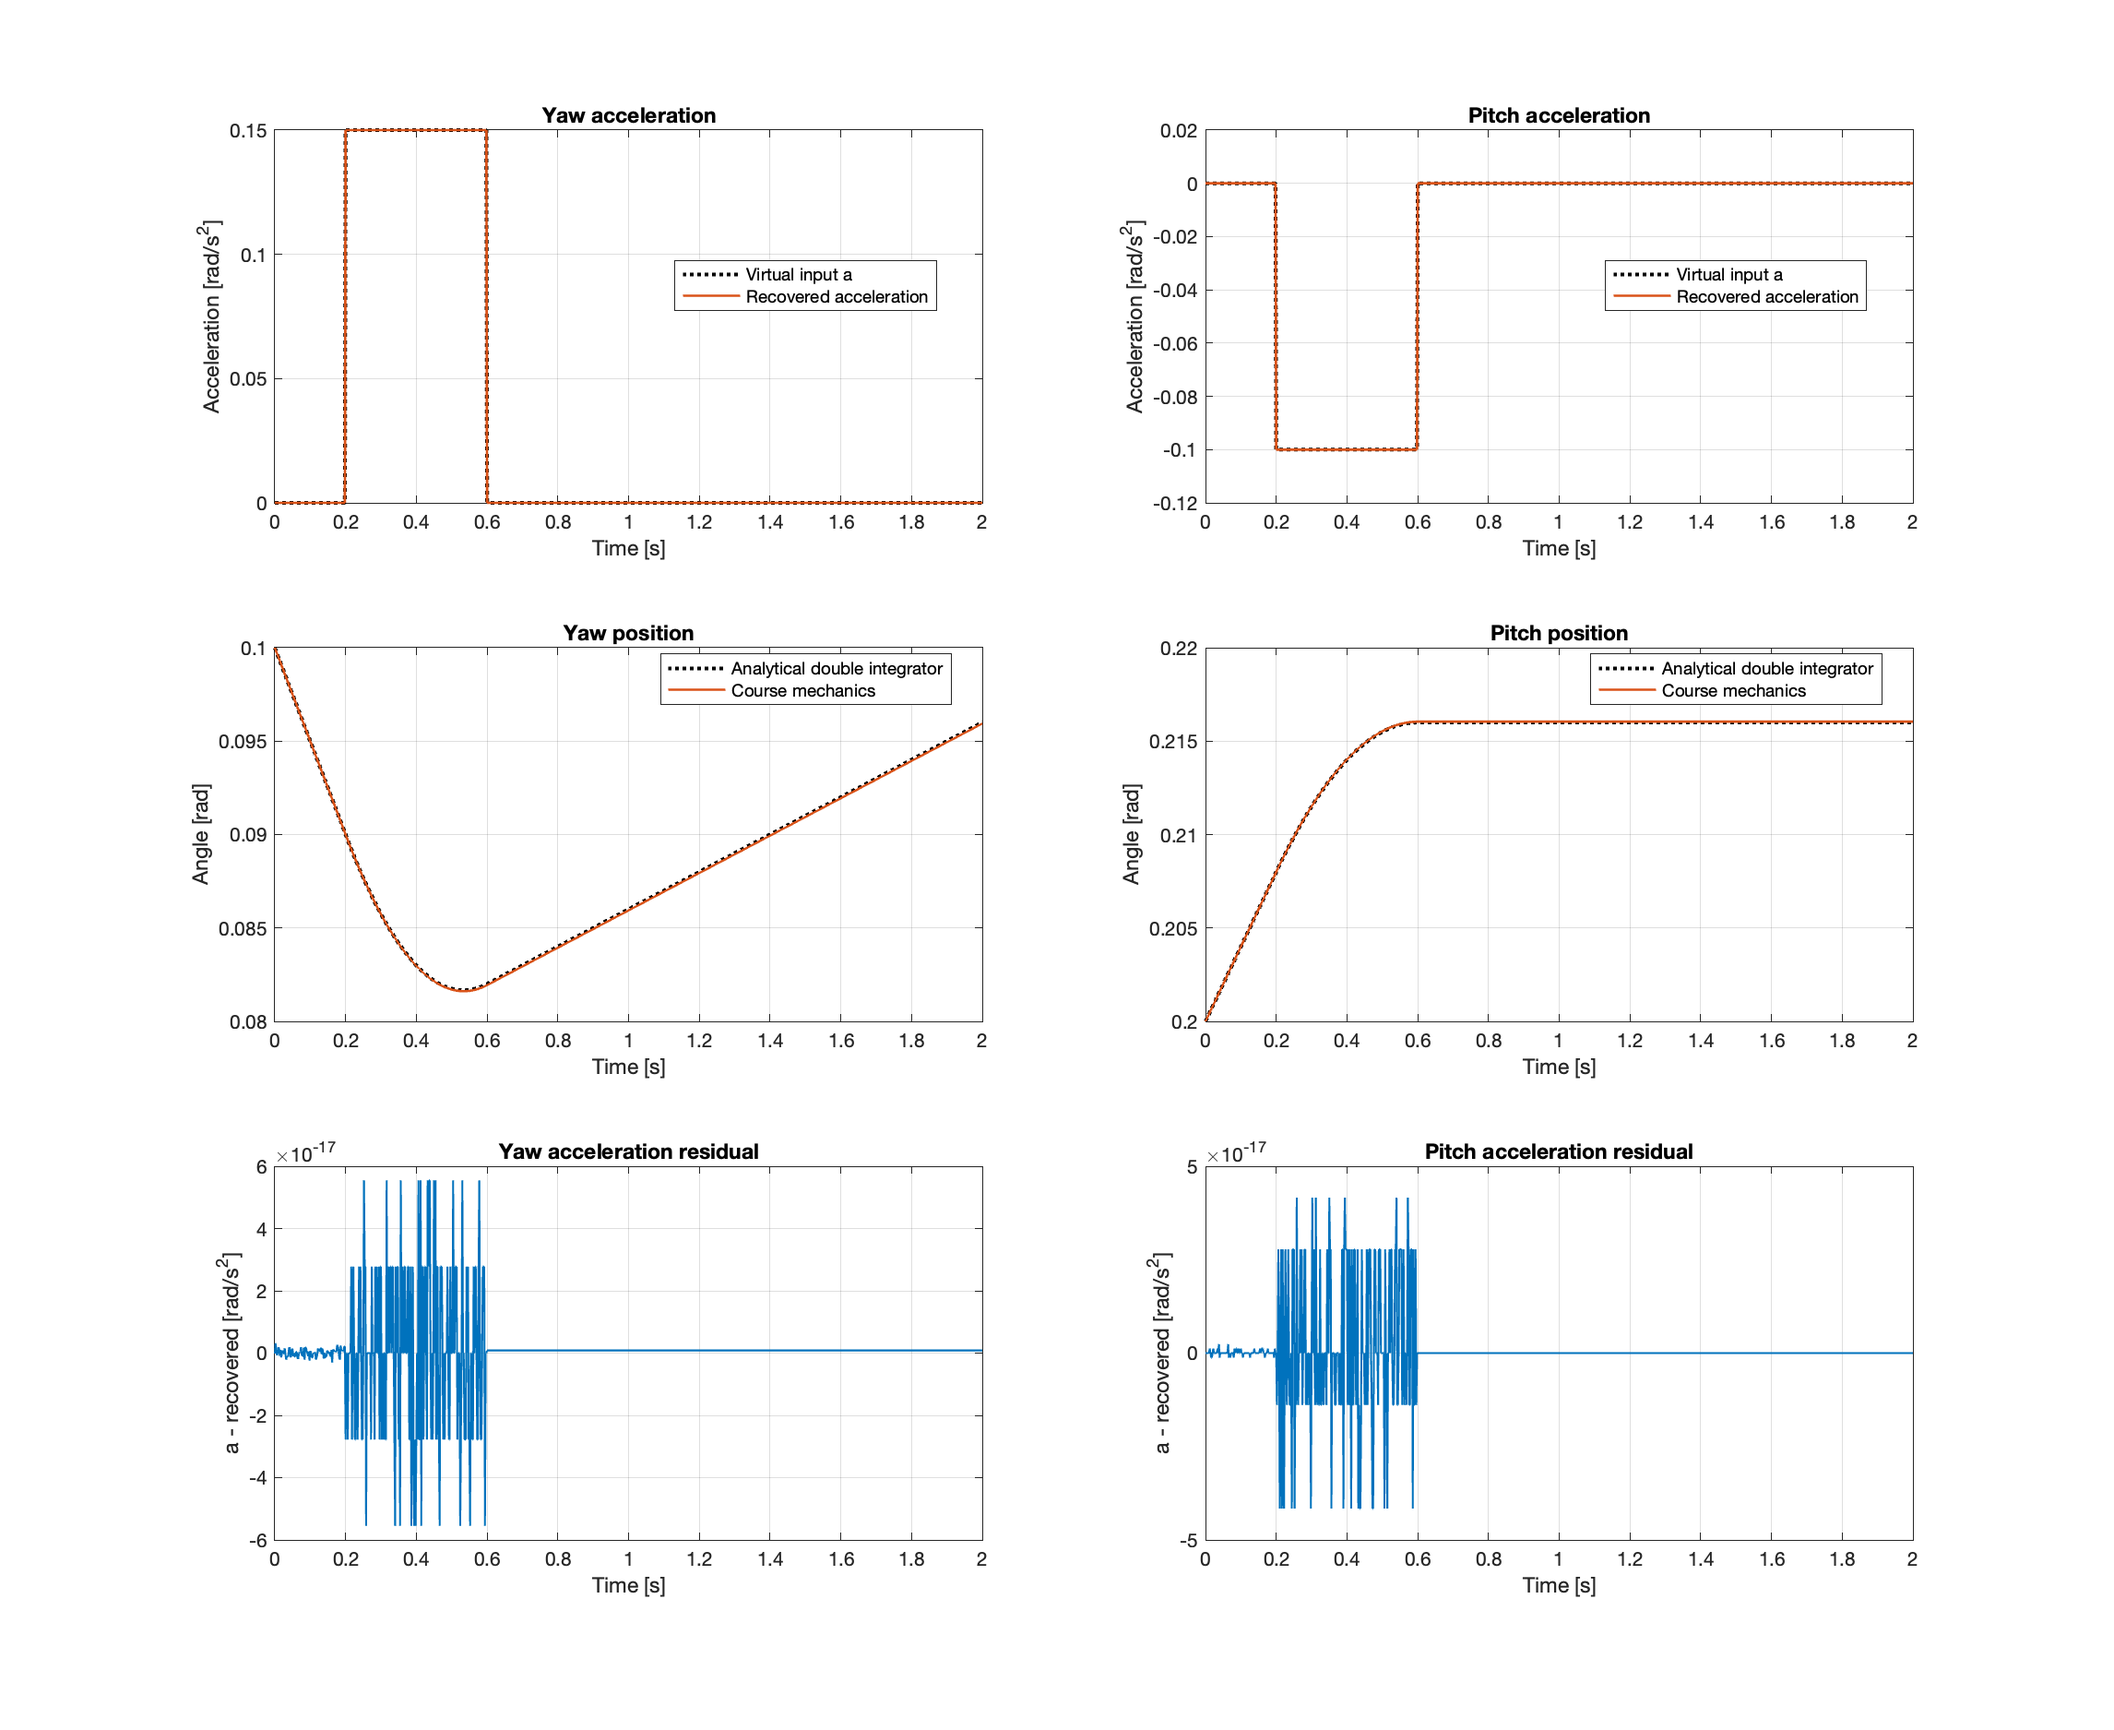
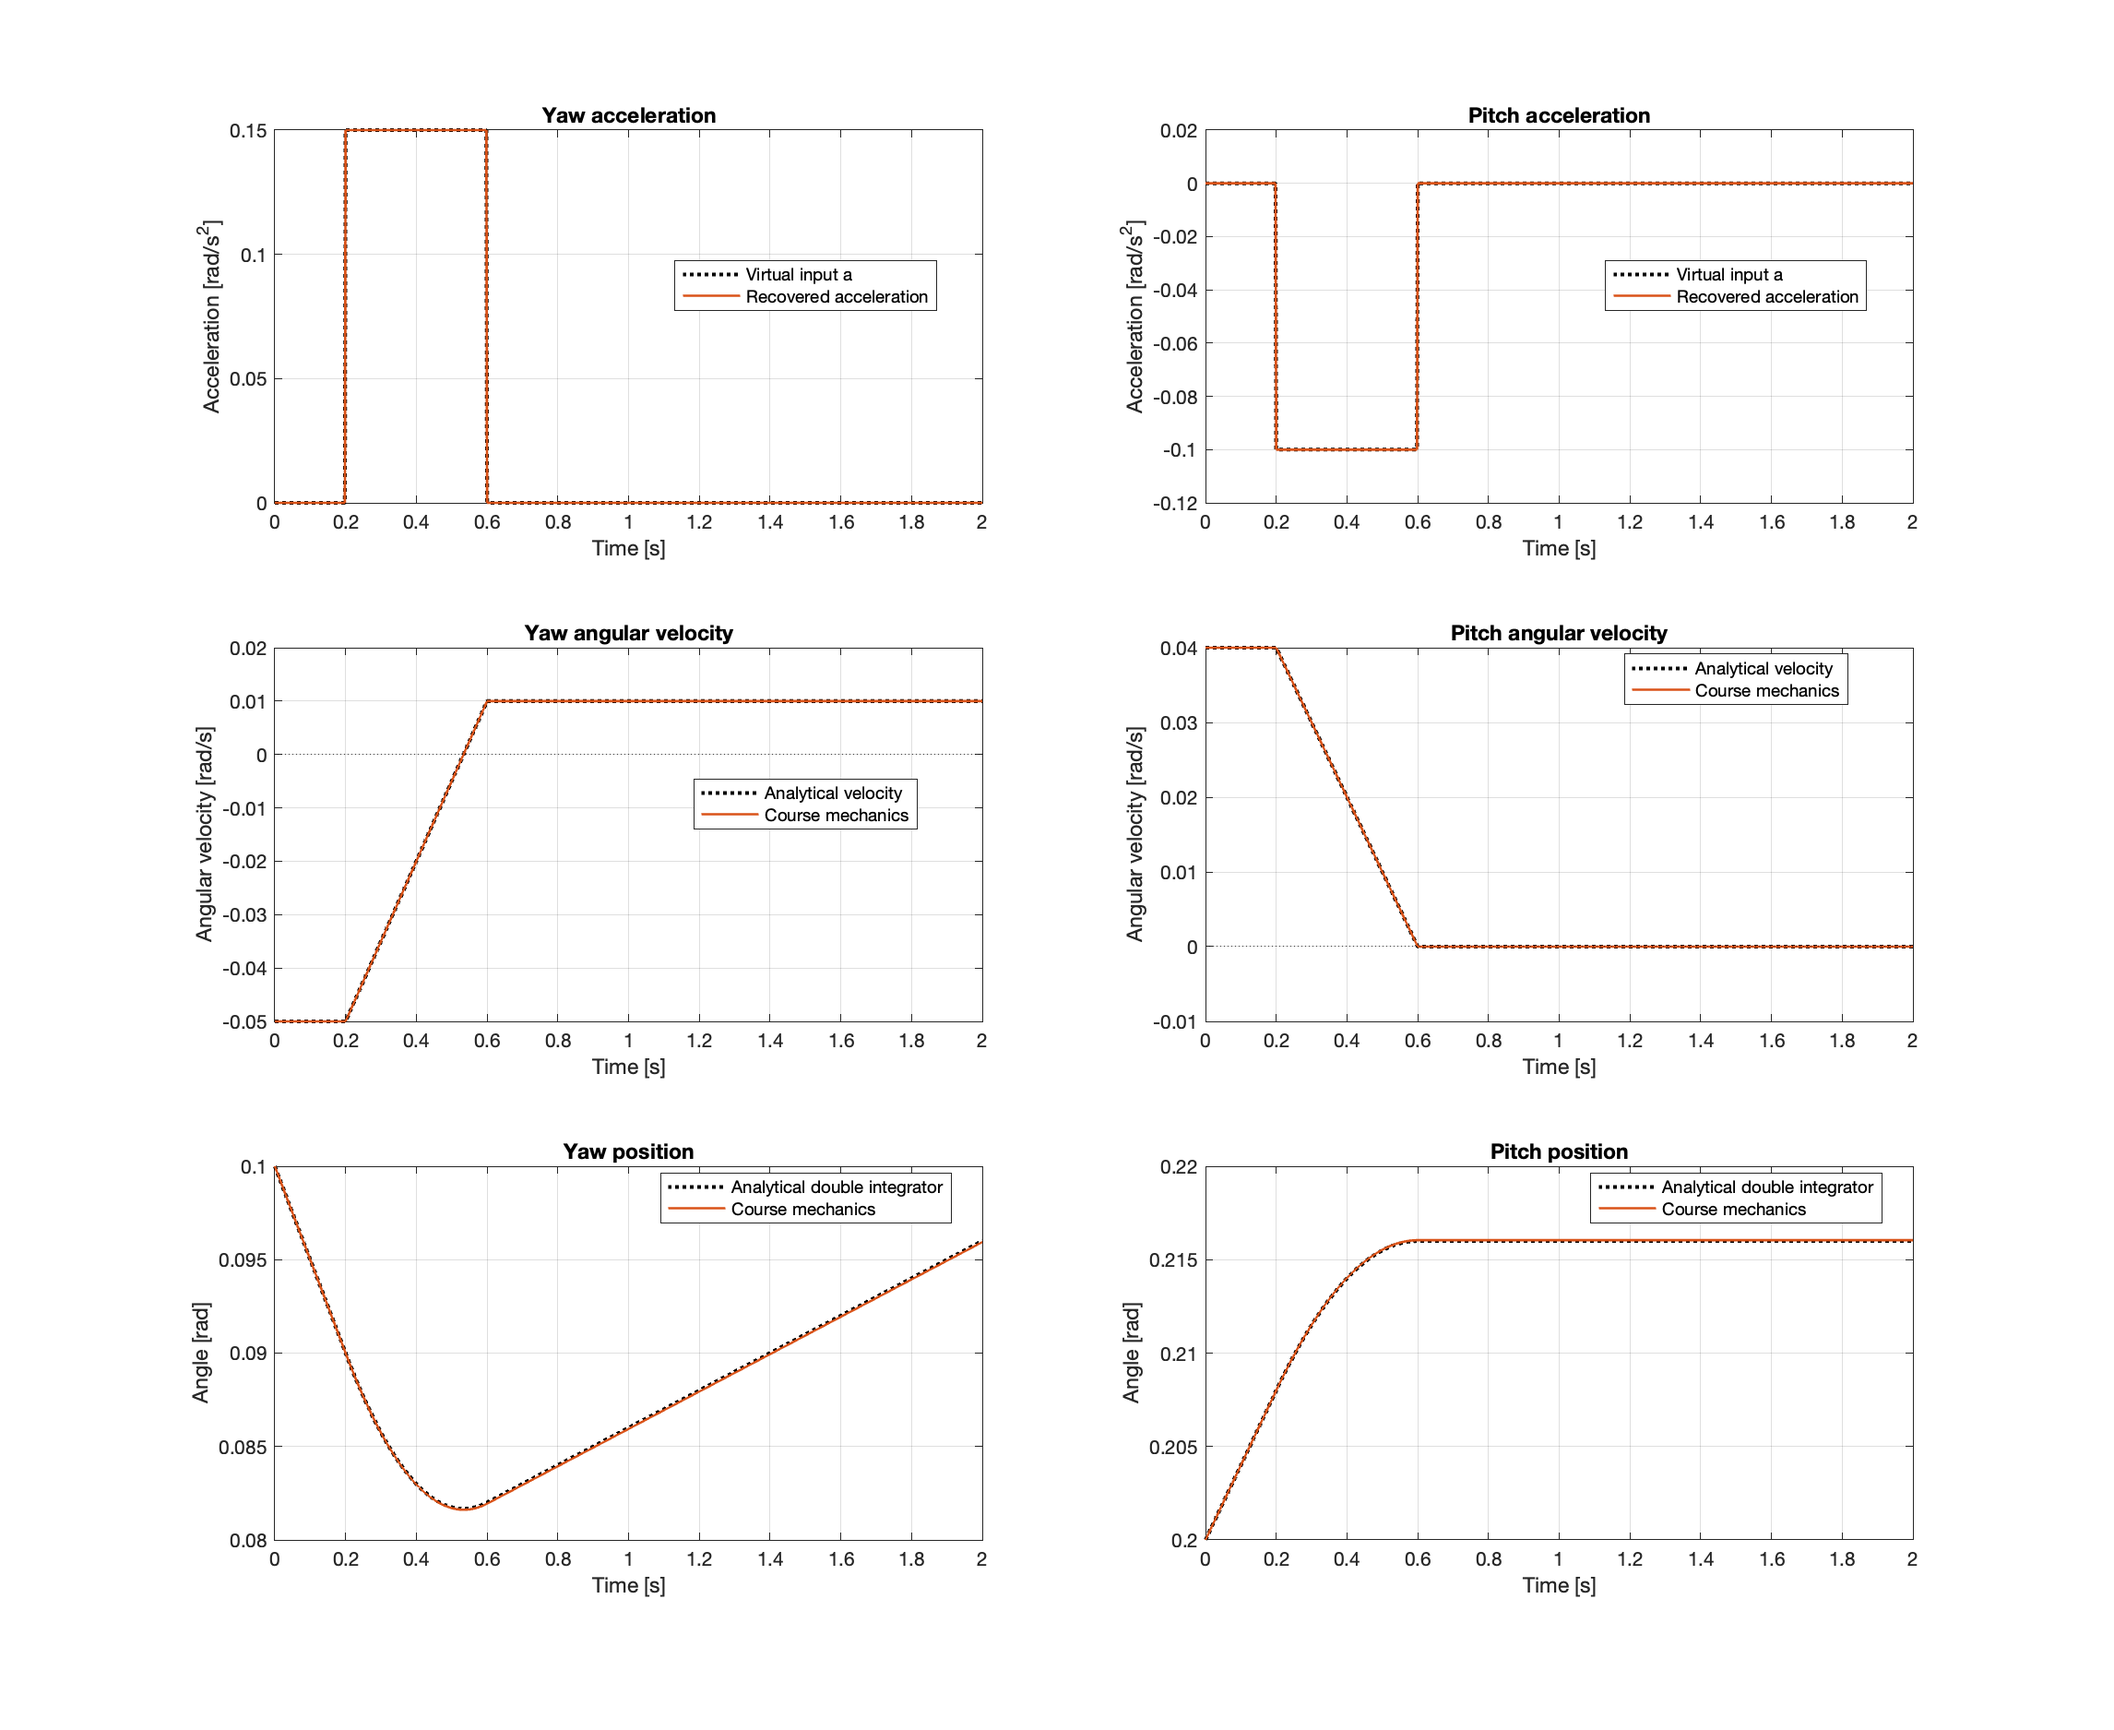
Show angular velocity in Question 3 response plots (#11)

diff --git a/validation/export_feedback_linearization_figures.m b/validation/export_feedback_linearization_figures.m
@@ -14,18 +14,32 @@ for axis=1:2
     ylabel('Acceleration [rad/s^2]'); legend('Virtual input a','Recovered acceleration','Location','best');
     subplot(3,2,axis+2);
     t=r.time;
+    expectedRate=s.p.initialState(axis+2)+s.p.acceleration(axis)* ...
+        (max(t-0.2,0)-max(t-0.6,0));
+    plot(t,expectedRate,':k','LineWidth',2); hold on;
+    plot(t,r.data(:,axis+6),'LineWidth',1.3); grid on;
+    yline(0,':k','HandleVisibility','off');
+    title([names{axis} ' angular velocity']); ylabel('Angular velocity [rad/s]');
+    legend('Analytical velocity','Course mechanics','Location','best');
+    subplot(3,2,axis+4);
     expected=s.p.initialState(axis)+s.p.initialState(axis+2)*t + ...
         0.5*s.p.acceleration(axis)*(max(t-0.2,0).^2-max(t-0.6,0).^2);
     plot(t,expected,':k','LineWidth',2); hold on;
     plot(t,r.data(:,axis+4),'LineWidth',1.3); grid on;
     title([names{axis} ' position']); ylabel('Angle [rad]');
     legend('Analytical double integrator','Course mechanics','Location','best');
-    subplot(3,2,axis+4);
-    plot(r.time,r.data(:,axis+12),'LineWidth',1); grid on;
-    title([names{axis} ' acceleration residual']); ylabel('a - recovered [rad/s^2]');
 end
 for k=1:6, subplot(3,2,k); xlabel('Time [s]'); xlim([0 2]); end
 print(f,fullfile(folder,'feedback_linearization_response.png'),'-dpng','-r150'); close(f);
+% Keep numerical residuals separate so the main figure reads a -> dq -> q.
+f=figure('Visible','off','Color','w','Position',[50 50 1100 350]);
+for axis=1:2
+    subplot(1,2,axis);
+    plot(r.time,r.data(:,axis+12),'LineWidth',1); grid on;
+    title([names{axis} ' acceleration residual']); ylabel('a - recovered [rad/s^2]');
+    xlabel('Time [s]'); xlim([0 2]);
+end
+print(f,fullfile(folder,'feedback_linearization_residual.png'),'-dpng','-r150'); close(f);
 f=figure('Visible','off','Color','w','Position',[50 50 1000 370]);
 plot(r.time,r.data(:,9:10),'LineWidth',1.5); grid on;
 xlabel('Time [s]'); ylabel('Desired rotor speed [rad/s]');

diff --git a/docs/report.md b/docs/report.md
@@ -445,13 +445,25 @@ The [feedback-linearization experiment](../simulink/experiments/aero2_mechanical
 
 Its scopes show requested/recovered acceleration, angles, rates, rotor commands and acceleration error. [validate_feedback_linearization.m](../validation/validate_feedback_linearization.m) also substitutes computed rotor speeds into the original course equations at 180 representative states and acceleration commands.
 
-![Experiment: acceleration, angle response and cancellation error](figures/feedback_linearization_response.png)
+![Experiment: acceleration, angular velocity and angle response](figures/feedback_linearization_response.png)
 
 Read this figure by rows:
 
 - **Top:** requested and recovered accelerations overlap, confirming the cancellation.
-- **Middle:** the dotted curves are analytical double-integrator responses; the orange curves come from the nonlinear course mechanics. Yaw first decreases because its initial velocity is negative. The positive pulse reverses it, leaving +0.01 rad/s afterward. Pitch initially increases; the negative pulse reduces its velocity to zero, so it becomes flat near 0.216 rad.
-- **Bottom:** the acceleration error is around $10^{-17}$ rad/s². The spikes are floating-point roundoff, not sensor noise or physical oscillation.
+- **Middle — angular velocity:** yaw starts at -0.05 rad/s. The positive acceleration pulse brakes it, crosses zero near 0.533 s, and leaves +0.01 rad/s after 0.6 s. Pitch starts at +0.04 rad/s; its negative pulse brings it to zero at 0.6 s. These are body angular velocities, not propeller spin speeds.
+- **Bottom — position:** yaw decreases while its velocity is negative and increases after its velocity becomes positive. It is not being commanded back to its initial angle: it will pass that angle if the simulation continues. Pitch becomes flat because its final velocity is zero. The dotted curves are the analytical responses; the orange curves come from the nonlinear course mechanics.
+
+The angular-velocity prediction is obtained by integrating the acceleration pulse once:
+
+```math
+\dot q(t)=\dot q(0)+a_0\left[\max(t-0.2,0)-\max(t-0.6,0)\right].
+```
+
+Here $a_0=[0.15,-0.10]^T$ rad/s². After the pulse, the final rates are $[-0.05,0.04]^T+0.4[0.15,-0.10]^T=[0.01,0]^T$ rad/s. Zero acceleration then preserves these rates; it does not stop yaw motion or mean the motors are switched off.
+
+![Experiment: acceleration cancellation residuals](figures/feedback_linearization_residual.png)
+
+The separate residual figure shows acceleration errors around $10^{-17}$ rad/s². Its spikes are floating-point roundoff, not sensor noise or physical oscillation.
 
 | Check | Measured result |
 |---|---:|
